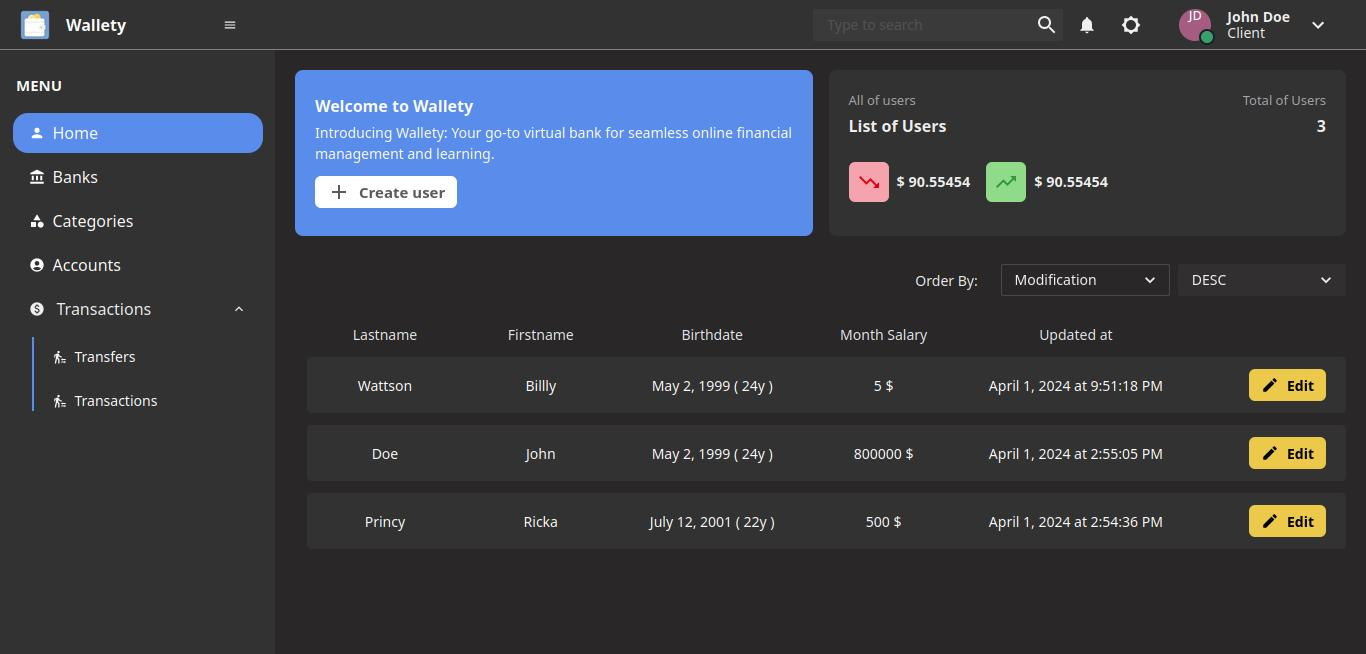
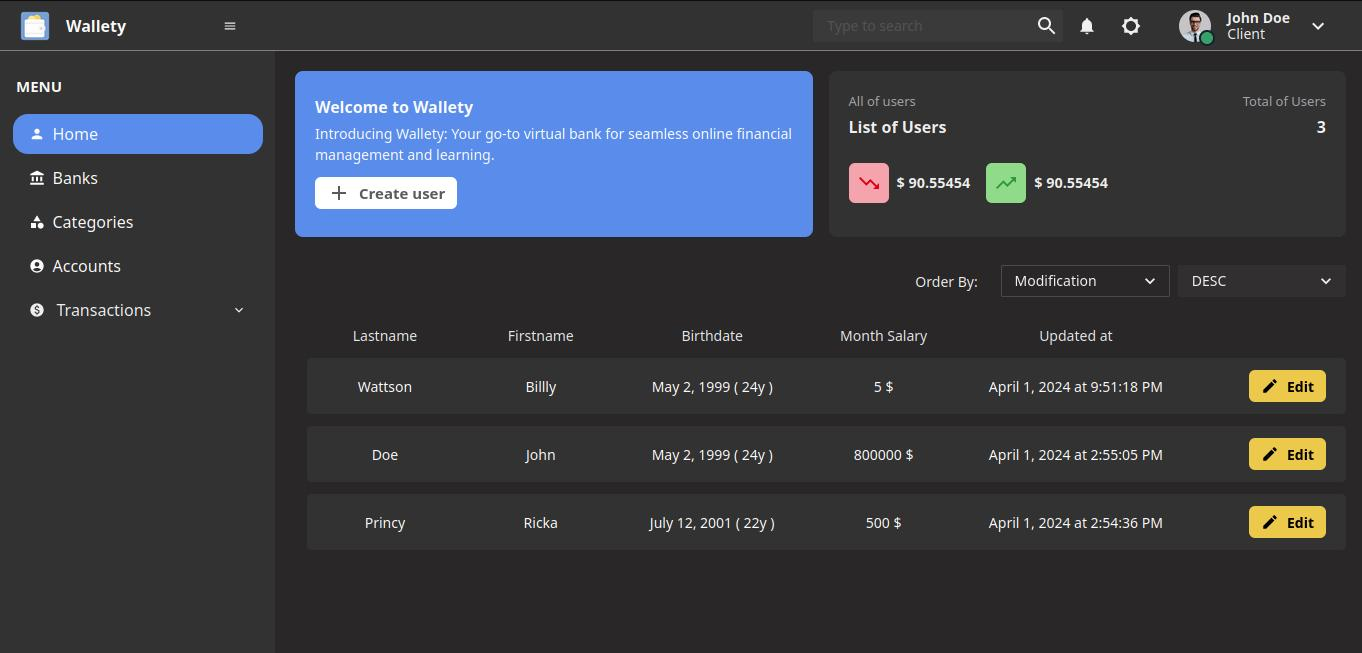
feat: create readme

diff --git a/src/operations/transfers/list/list.tsx b/src/operations/transfers/list/list.tsx
@@ -1,11 +1,20 @@
-import { Heading, Box, Text } from "@chakra-ui/react";
-import { Transfer, TransferStatus } from "@/gen/client";
+import { useMutation, useQueryClient } from "@tanstack/react-query";
+import { Heading, Box, Text, Button, Select } from "@chakra-ui/react";
+import {
+  ApiErrorResponse,
+  Transfer,
+  TransferDirection,
+  TransferStatus,
+} from "@/gen/client";
 import { LabelType, List, useOrder } from "@/ui/components/list";
-import { ButtonModal } from "@/ui/components";
+import { ButtonModal, FlexBox, Separator } from "@/ui/components";
 import { CreateTransfers } from "../mutation/create";
+import { AxiosError } from "axios";
+import { ChangeEvent, Dispatch, SetStateAction, useState } from "react";
 import { accountProvider } from "@/providers/account-provider";
 import { formatDate } from "@/utils/date";
 import { renderMoney } from "@/utils/money";
+import { useToast } from "@/ui/hooks";
 
 function getColors(status: TransferStatus) {
   switch (status) {
@@ -31,29 +40,72 @@ function TransferStatusShow({ data: transfer }: { data: Transfer }) {
 }
 
 function ShowOneTransfer({ data: transfer }: { data: Transfer }) {
+  const toast = useToast();
+  const queryClient = useQueryClient();
+  const { mutate, isPending } = useMutation<
+    string,
+    AxiosError<ApiErrorResponse>,
+    string
+  >({
+    mutationFn: (id: string) => accountProvider.cancelTransfer(id),
+    onError: (error) => {
+      toast({
+        title: error!.response?.data.message,
+        status: "error",
+        description: `Exit code with ${error!.response?.data?.code}`,
+      });
+    },
+    onSuccess: () => {
+      queryClient.invalidateQueries({ queryKey: ["transfers"] });
+      toast({
+        title: "Transfer cancelled by success",
+        description: "Exit code with 200",
+      });
+    },
+  });
+
   return (
-    <ButtonModal
-      button={{
-        label: "More info",
-        props: {
-          colorScheme: "blue",
-        },
-      }}
-      modalContent={{
-        props: {
-          sx: {
-            p: 5,
+    <FlexBox sx={{ width: "35%", gap: 4, justifyContent: "end", pr: 5 }}>
+      {transfer.status === TransferStatus.Pending && (
+        <Button
+          onClick={() => mutate(transfer.id!)}
+          disabled
+          isLoading={isPending}
+          size="sm"
+          colorScheme="red"
+        >
+          Cancel
+        </Button>
+      )}
+      <ButtonModal
+        button={{
+          label: "More info",
+          props: {
+            colorScheme: "blue",
+            sx: { py: 2 },
           },
-        },
-      }}
-    >
-      <Heading sx={{ fontSize: "16px", mb: 3 }}>Transfer Reason</Heading>
-      <Text sx={{ fontSize: "14px" }}>{transfer.reason}</Text>
-    </ButtonModal>
+        }}
+        modalContent={{
+          props: {
+            sx: {
+              p: 5,
+            },
+          },
+        }}
+      >
+        <Heading sx={{ fontSize: "16px", mb: 3 }}>Transfer Reason</Heading>
+        <Text sx={{ fontSize: "14px" }}>{transfer.reason}</Text>
+      </ButtonModal>
+    </FlexBox>
   );
 }
 
 export function TransferList({ accountId }: { accountId: string }) {
+  const [filter, setFilter] = useState<TransferFilter>({
+    direction: TransferDirection.All,
+    status: undefined,
+  });
+
   const { handleChange, orderValue } = useOrder<Transfer>({
     orderBy: "effectiveDatetime",
     order: "DESC",
@@ -65,17 +117,15 @@ export function TransferList({ accountId }: { accountId: string }) {
     { label: "Category", source: "category.name", size: "10%" },
     {
       label: "Amount",
-      /*@ts-ignore*/ //wrong spec
-      render: (transfer) => renderMoney(transfer.amount),
+      render: (transfer) => renderMoney(transfer.amount!),
       size: "15%",
     },
     {
       label: "Effective date",
-      /*@ts-ignore*/ //wrong spec
       render: (transfer) => formatDate(transfer?.effectiveDatetime!),
       size: "20%",
     },
-    { label: "", component: ShowOneTransfer, size: "20%" },
+    { label: "", component: ShowOneTransfer, size: "35%" },
   ];
 
   return (
@@ -85,14 +135,21 @@ export function TransferList({ accountId }: { accountId: string }) {
       provider={() =>
         accountProvider.getTransfers(
           accountId,
-          undefined,
-          undefined,
+          filter.direction,
+          filter.status,
           orderValue
         )
       }
-      keys={[accountId, orderValue.order, orderValue.orderBy]}
+      keys={[
+        accountId,
+        orderValue.order,
+        orderValue.orderBy,
+        filter.direction,
+        filter.status,
+      ]}
       overviewProps={{
         leftButton: <CreateTransfers accounId={accountId} />,
+        content: <TransferListOverview onChange={setFilter} />,
         orders: {
           current: orderValue,
           handleChange,
@@ -104,5 +161,79 @@ export function TransferList({ accountId }: { accountId: string }) {
         },
       }}
     />
+  );
+}
+
+type TransferFilter = {
+  status?: TransferStatus;
+  direction?: TransferDirection;
+};
+
+function TransferListOverview({
+  onChange,
+}: {
+  onChange: Dispatch<SetStateAction<TransferFilter>>;
+}) {
+  const directionOptions = [
+    { label: "IN", value: TransferDirection.In },
+    { label: "OUT", value: TransferDirection.Out },
+    { label: "ALL", value: TransferDirection.All },
+  ];
+
+  const statusOptions = [
+    { label: "Failed", value: TransferStatus.Failed },
+    { label: "Completed", value: TransferStatus.Completed },
+    { label: "Cancelled", value: TransferStatus.Cancelled },
+    { label: "Pending", value: TransferStatus.Pending },
+  ];
+
+  return (
+    <>
+      <Separator />
+      <FlexBox sx={{ gap: 2, mb: 5, width: "300px" }}>
+        <Box sx={{ width: "150px" }}>
+          <Text sx={{ fontSize: "14px" }}>Status: </Text>
+        </Box>
+        <Select
+          size="sm"
+          placeholder="No filter"
+          variant="filled"
+          minWidth={150}
+          onChange={(e: ChangeEvent<HTMLSelectElement>) =>
+            onChange((prev) => ({
+              ...prev,
+              status: e.target.value as TransferStatus,
+            }))
+          }
+        >
+          {statusOptions.map((status) => (
+            <option key={status.value} value={status.value}>
+              {status.label}
+            </option>
+          ))}
+        </Select>
+        <Box sx={{ width: "150px" }}>
+          <Text sx={{ fontSize: "14px" }}>Direction: </Text>
+        </Box>
+        <Select
+          size="sm"
+          variant="filled"
+          minWidth={150}
+          onChange={(e: ChangeEvent<HTMLSelectElement>) =>
+            onChange((prev) => ({
+              ...prev,
+              direction: e.target.value as TransferDirection,
+            }))
+          }
+        >
+          {directionOptions.map((direction) => (
+            <option key={direction.value} value={direction.value}>
+              {direction.label}
+            </option>
+          ))}
+        </Select>
+      </FlexBox>
+      <Separator />
+    </>
   );
 }

diff --git a/src/ui/layout/appbar/appbar.tsx b/src/ui/layout/appbar/appbar.tsx
@@ -41,7 +41,7 @@ function UserInfo() {
             size="sm"
             display="block"
             name="John Doe"
-            src="default_profile.jpg"
+            src="/default_profile.jpg"
           >
             <AvatarBadge boxSize="1.25em" bg="green.500" />
           </Avatar>
